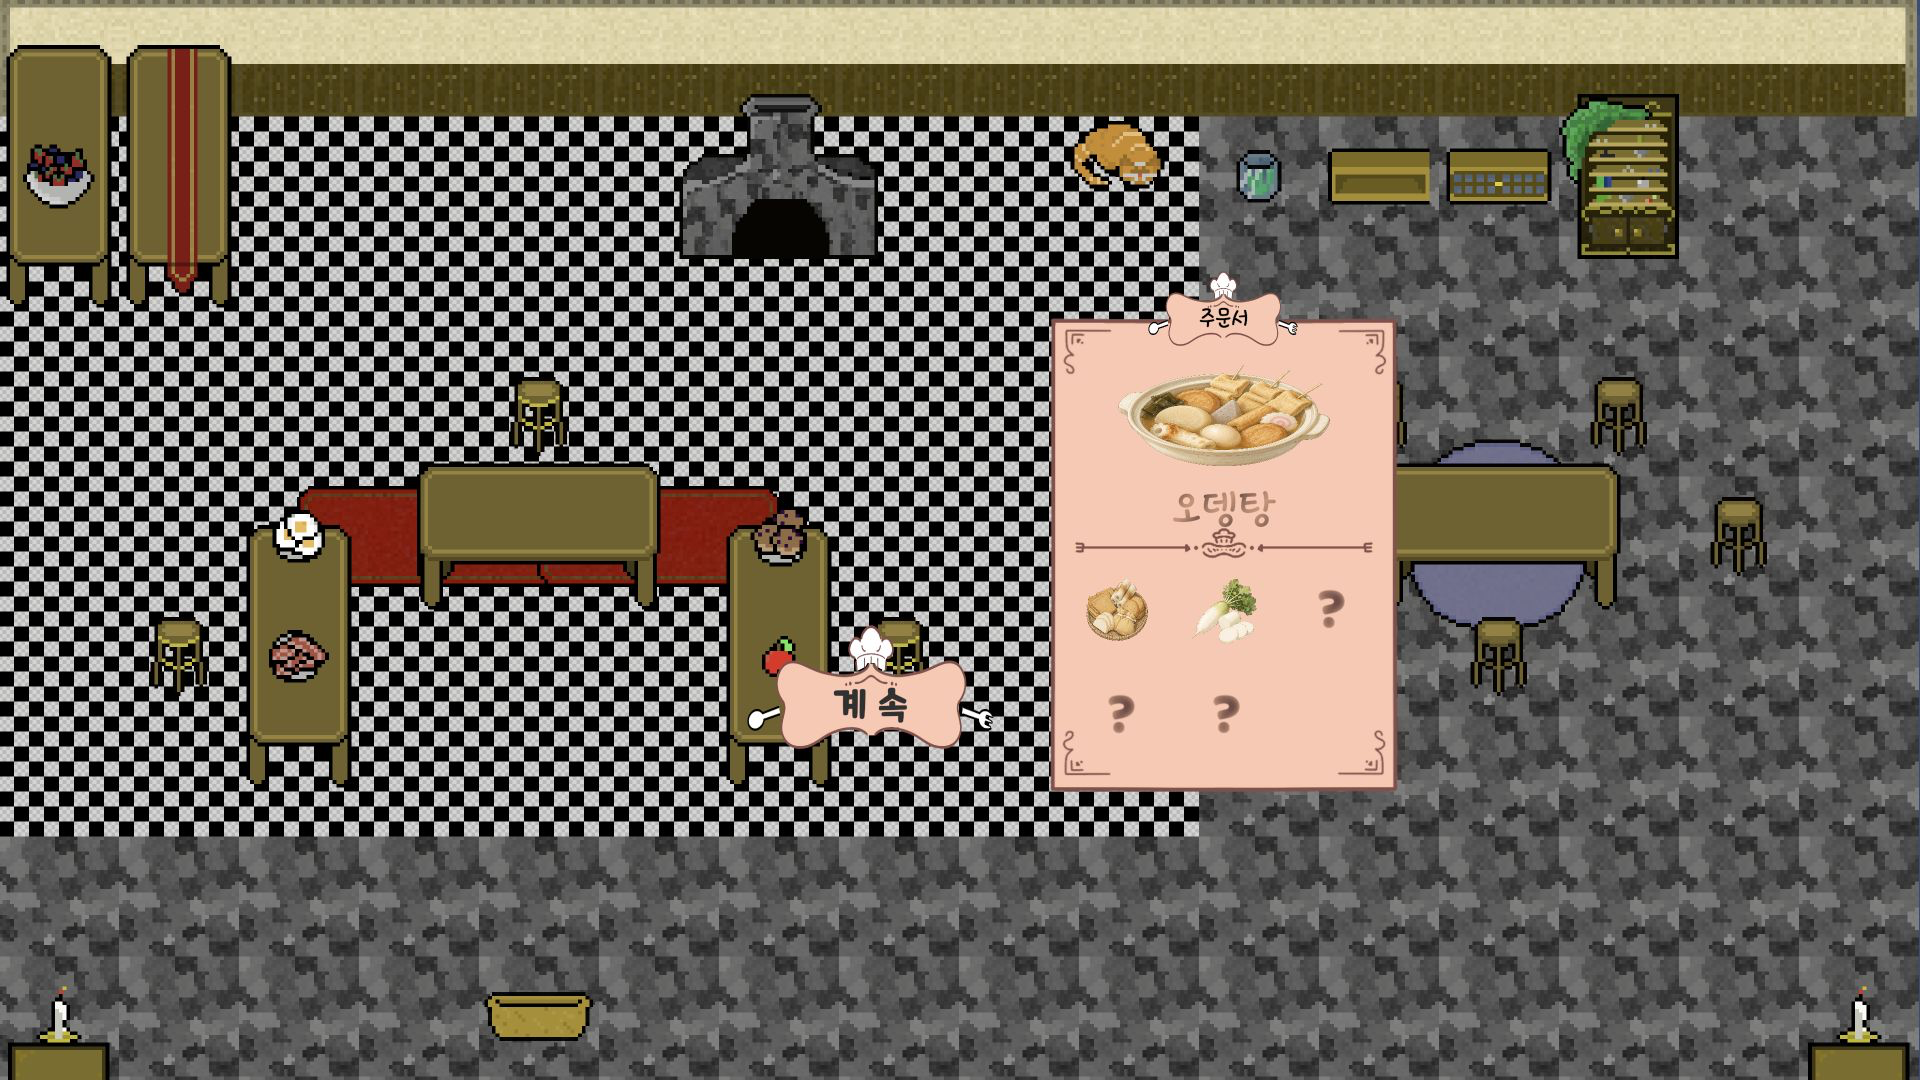
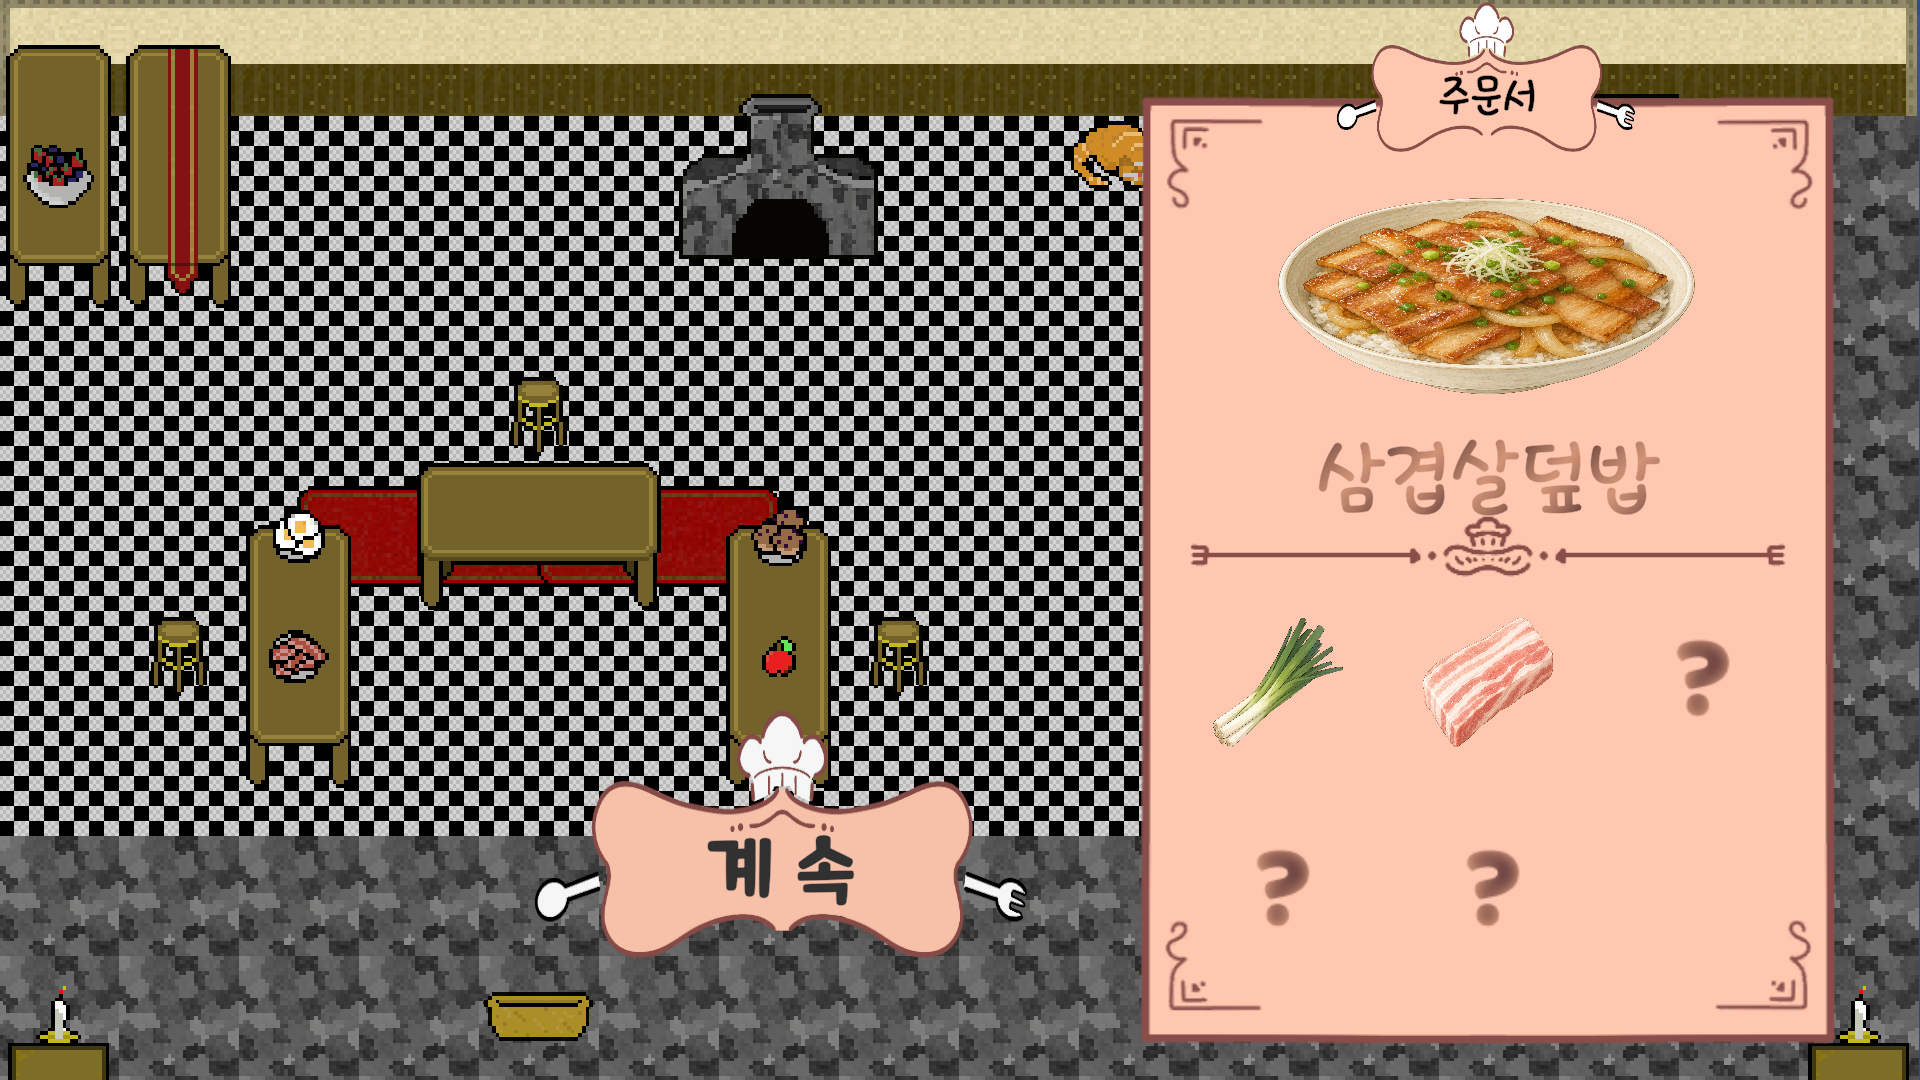
docs: replace gameplay captures with FHD screenshots

diff --git a/README.md b/README.md
@@ -9,6 +9,7 @@
 - 팀명: 조아요 수집가
 - 구성: 개발 2명, 아트 2명
 - 담당: 게임 진행, 채점, 인벤토리, 카드, 사운드와 대화 기능
+- 기준 해상도: 1920×1080 FHD
 - 기술: Unity 6, C#
 
 ## 게임 설명
@@ -16,6 +17,8 @@
 - 바구니를 처음 열면 재료를 확인하고 두 번째에 획득하는 방식임.
 - 필요한 재료를 모아 요리를 완성하면 0점부터 100점까지 자동 채점함.
 - 암전, 조작 반전, 곰팡이, MSG 같은 카드로 상대를 방해할 수 있음.
+
+아래 화면은 게임이 기준으로 잡은 1920×1080 해상도로 실행해 캡처했음.
 
 | 손님의 주문 확인 | 바구니 속 재료 확인 |
 | --- | --- |
@@ -79,6 +82,8 @@
 ### 능력 발동 예시
 
 ![암전 카드가 발동해 상대 화면이 어두워진 장면](docs/blackout-effect.png)
+
+- 실제 플레이 중 암전 카드를 획득해 2P 화면이 가려지고 카드 알림이 뜬 장면임.
 
 ## 내가 맡은 부분과 구현 방식
 
